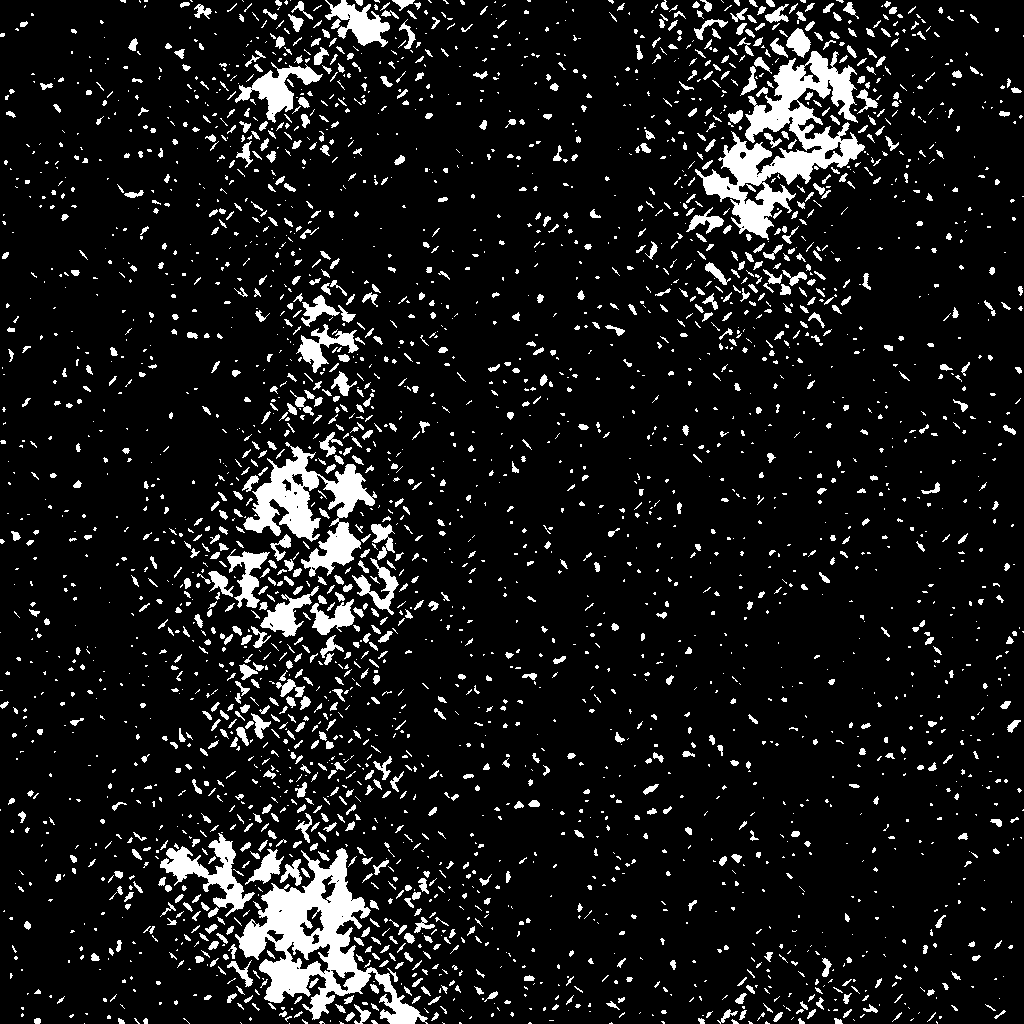
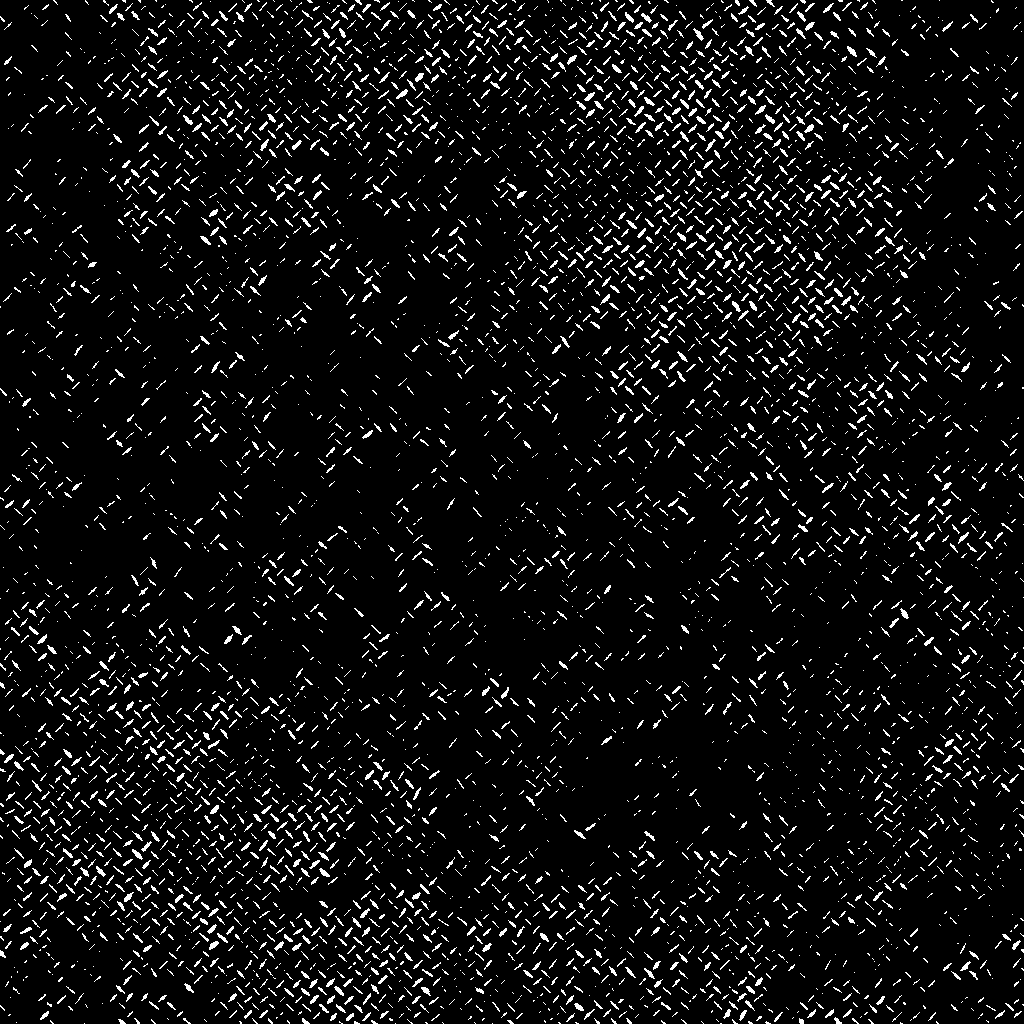
Desgaste solo con tajos en diagonal, sin puntos ni manchas (7 % de hueco)
Claude-Session: https://claude.ai/code/session_015hxqaid2r1fnEyJ8KQxBdR

diff --git a/src/scripts/movimiento.js b/src/scripts/movimiento.js
@@ -133,10 +133,12 @@ if (pausa) {
       Técnico: una textura propia (public/texturas/desgaste.png, hecha con herramientas/textura-desgaste.py, sin copiar
       nada de la fuente) que se usa como máscara: donde la textura es transparente, la letra tiene un hueco. Se repite
       cada 2,8 em, así escala con el tamaño de la letra, y cada letra toma un pedazo distinto. Un filtro SVG chico mueve
-      el borde 1 % del tamaño de la letra para que no quede liso. Hueco medido en la textura: 10 %. La primera versión
-      copiaba el 26 % que quita AWAKENNING STEEL y Jose la vio "demasiado exagerada" (1 oct 2026): ahora la chapa
-      queda limpia casi toda y el dibujo aparece solo en algunas zonas gastadas de cada letra.
-      Parámetros: semilla 7, vis0=0.05 W=0.11 L=0.48 gasto=0.5 contraste=1.8 parche=0.98 isla=0.7 tuerce=0.15 onda=0.07. */
+      el borde 1 % del tamaño de la letra para que no quede liso. Historia (1 oct 2026): 24 % de hueco fue "demasiado
+      exagerado". 10 % con puntos y manchas pareció "le dispararon con una escopeta, huecos y no rasgaduras". Lo que
+      se ve como rajadura en STEEL son los tajos finos en diagonal de la chapa, así que ahora solo hay tajos: sin
+      puntos de polvo ni manchas redondas. Hueco: 7 %.
+      Parámetros: semilla 7, vis0=0.45 W=0.09 L=0.5 gasto=0.35 contraste=1.3 parche=9 polvo=2 raja_umbral=9 isla=0.7
+      tuerce=0.15 onda=0.07. */
 const bordes = new Map();
 const svgBordes = document.createElementNS('http://www.w3.org/2000/svg', 'svg');
 svgBordes.setAttribute('aria-hidden', 'true'); svgBordes.style.cssText = 'position:absolute;width:0;height:0;overflow:hidden';

diff --git a/herramientas/textura-desgaste.py b/herramientas/textura-desgaste.py
@@ -7,7 +7,7 @@ rng = np.random.default_rng(int(sys.argv[2]) if len(sys.argv) > 2 else 7)
 T = 1024; SS = 2; N = T * SS            # lado de la imagen, sobremuestreo para bordes limpios
 CAP = 256 * SS                           # una altura de mayúscula en píxeles
 CELDAS = 60; a = N / CELDAS              # red de la chapa: 0,06 de la altura de mayúscula
-P = dict(L=0.44, W=0.10, gasto=0.55, parche=0.95, rotura=0.55, polvo=0.955, vis0=0.35, contraste=1.6, isla=0.55, tuerce=0.35, onda=0.08, punta=0.8, aspero=0.45)
+P = dict(L=0.44, W=0.10, gasto=0.55, parche=0.95, rotura=0.55, polvo=0.955, vis0=0.35, contraste=1.6, isla=0.55, tuerce=0.35, onda=0.08, alarga=0.0, ancho0=0.35, raja_largo=0.35, raja_ancho=0.035, raja_fino=0.12, raja_tramo=0.55, raja_umbral=0.45, punta=0.8, aspero=0.45)
 for kv in sys.argv[3:]: k, v = kv.split('='); P[k] = float(v)
 
 def ruido(escala_px, octavas=1):
@@ -21,6 +21,15 @@ def ruido(escala_px, octavas=1):
         tot += z / z.std() * (0.5**o)
     tot = tot / tot.std()
     return 0.5 + 0.5 * np.tanh(tot * 0.8)
+
+def ruido_dir(largo, ancho, ang):
+    """Ruido estirado en una dirección (vetas largas y finas), periódico."""
+    fy = np.fft.fftfreq(N)[:, None]; fx = np.fft.fftfreq(N)[None, :]
+    c, s_ = np.cos(ang), np.sin(ang)
+    fpar = fx * c + fy * s_; fper = -fx * s_ + fy * c
+    filtro = np.exp(-(np.pi**2) * ((largo * fpar)**2 + (ancho * fper)**2))
+    z = np.real(np.fft.ifft2(np.fft.fft2(rng.standard_normal((N, N))) * filtro))
+    return z / z.std()
 
 y, x = np.mgrid[0:N, 0:N].astype(np.float32)
 # la chapa no es perfecta: se tuerce un poco, así las lentejas salen chuecas y de bordes ondulados
@@ -42,22 +51,23 @@ _, dx, dy, sg, idn = best
 tabla = rng.random(200000); azar1 = tabla[idn % 200000]; azar2 = tabla[(idn * 7 + 13) % 200000]
 c = np.sqrt(0.5)
 u = (dx + sg * dy) * c; v = (-sg * dx + dy) * c       # ejes de la lenteja, girada ±45°
-L = P['L'] * a * (0.75 + 0.5 * azar2); W = P['W'] * a * (0.7 + 0.6 * azar2)
+gasto = ruido(0.9 * CAP, 3)                             # zonas gastadas y zonas limpias
+gasto = np.clip((gasto - 0.5) * P.get('contraste', 1.6) + 0.5, 0, 1)
+# rajaduras: en lo gastado la lenteja se estira (más larga, no más ancha), como un tajo
+L = P['L'] * a * (0.75 + 0.5 * azar2) * (1 + P['alarga'] * gasto); W = P['W'] * a * (0.7 + 0.6 * azar2)
 perfil = np.clip(1 - np.abs(u / L), 0, None)**P['punta']   # puntas afiladas, no óvalos
 f = np.abs(v) / (W * perfil + 1e-3)                    # < 1 dentro de la lenteja
 f = np.where(perfil > 0, f, 9.0)
 aspero = ruido(0.007 * CAP, 1)
 f = f + (aspero - 0.5) * 2 * P['aspero']                # borde dentado, no liso
 
-gasto = ruido(0.9 * CAP, 3)                             # zonas gastadas y zonas limpias
-gasto = np.clip((gasto - 0.5) * P.get('contraste', 1.6) + 0.5, 0, 1)
 medio = ruido(0.05 * CAP, 2)                            # rompe las lentejas y los bordes de los parches
 fino = ruido(0.012 * CAP, 1)
 
 # 1. lentejas: chicas y rotas en lo limpio, más grandes en lo gastado
 # cada lenteja aparece o no según su número al azar: en lo limpio aparecen pocas, en lo gastado casi todas
 aparece = azar1 < (P['vis0'] + (1 - P['vis0']) * gasto)
-umbral = 0.35 + 1.1 * gasto * P['gasto']
+umbral = P['ancho0'] + P['gasto'] * gasto
 lenteja = aparece & ((f + (medio - 0.5) * 2.2 * P['rotura']) < umbral)
 # 2. parches grandes donde el gasto es fuerte, con forma que sigue la chapa
 cerca = np.clip(1 - np.minimum(f, 3) / 3, 0, 1)
@@ -66,7 +76,14 @@ grumo = ruido(0.03 * CAP, 2)
 parche = (gasto + 0.22 * cerca + 0.30 * (medio - 0.5) + P['isla'] * (grumo - 0.5)) > P['parche']
 # 3. polvo fino en todos lados
 polvo = fino > P['polvo']
-hueco = lenteja | parche | polvo
+# 4. rajaduras: líneas finas y quebradas a ±45°, como tajos en la chapa, solo donde está gastada
+raja = np.zeros((N, N), bool)
+for ang in (np.pi / 4, -np.pi / 4):
+    v = ruido_dir(P['raja_largo'] * CAP, P['raja_ancho'] * CAP, ang)
+    linea = np.abs(v) < P['raja_fino']                       # el cruce por cero de la veta es una línea fina
+    corte = ruido(0.04 * CAP, 2) > (1 - P['raja_tramo'])     # la línea se corta en tramos
+    raja |= linea & corte & (gasto > P['raja_umbral'])
+hueco = lenteja | parche | polvo | raja
 alfa = (~hueco).astype(np.float32)
 img = Image.fromarray((alfa * 255).astype(np.uint8)).resize((T, T), Image.LANCZOS)
 rgba = Image.merge('RGBA', [Image.new('L', (T, T), 0)] * 3 + [img])
